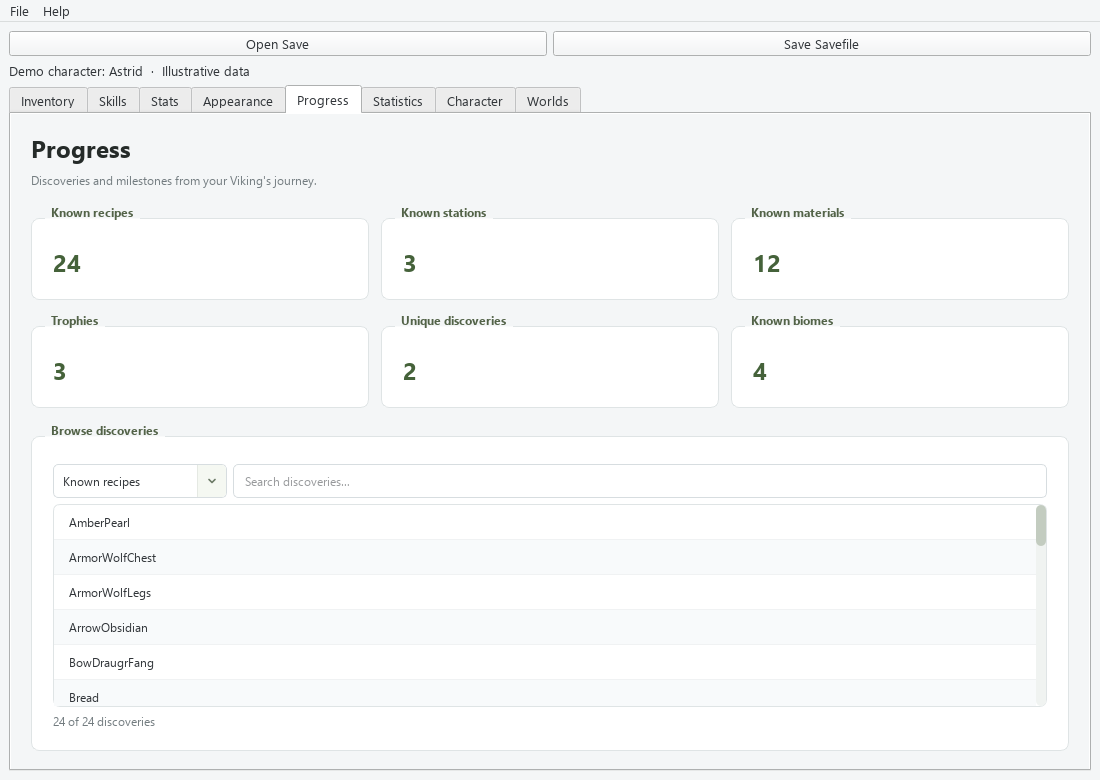
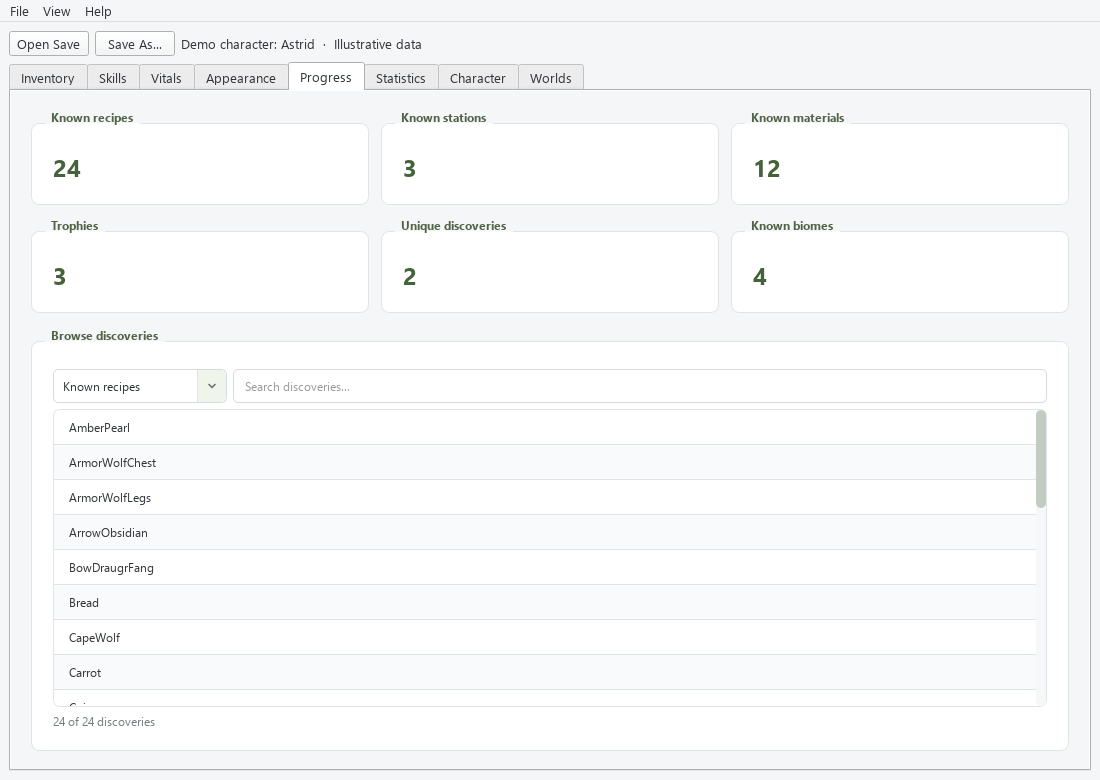
chore: prep VikingEditor v2.4.0

diff --git a/tools/createShowcase.py b/tools/createShowcase.py
@@ -20,8 +20,7 @@ from ui.mainWindow import MainWindow
 from ui.itemEditDialog import ItemEditDialog
 
 
-def main():
-    destination = ROOT / "docs" / "media"
+def main(destination):
     destination.mkdir(parents=True, exist_ok=True)
     app = QApplication([])
     app.setStyle("Fusion")
@@ -55,7 +54,8 @@ def main():
     data.update(health=125, max_health=150, stamina=100, max_stamina=150,
                 hair="Hair1", beard="Beard1", skin_color=[0.8,0.65,0.5], hair_color=[0.22,0.14,0.08],
                 foods=[dict(name="Bread",time=900),dict(name="CookedMeat",time=600)],
-                skills=[dict(id=i,level=level,xp=12) for i,level in ((1,65),(2,48),(3,56),(4,42),(5,60),(6,32))],
+                skills=[dict(id=i,level=level,xp=12) for i,level in ((1,65),(2,48),(3,56),(4,42),(5,60),(6,32),
+                                                                   (12345,42.5))],
                 known_recipes=prefabs, known_stations={"forge":5,"workbench":4,"cauldron":3},
                 known_material=prefabs[12:], trophies=["TrophyDeer","TrophyEikthyr","TrophyTroll"],
                 known_biomes=["Meadows","BlackForest","Swamp","Mountain"],
@@ -81,7 +81,7 @@ def main():
         index = next(i for i in range(window.tabs.count()) if window.tabs.tabText(i) == title)
         window.tabs.setCurrentIndex(index)
         app.processEvents()
-        path = destination / ("stats.png" if title == "Vitals" else f"{title.lower()}.png")
+        path = destination / f"{title.lower()}.png"
         window.grab().save(str(path))
         with Image.open(path) as image:
             frames.append(image.copy().convert("RGB"))
@@ -93,9 +93,14 @@ def main():
     app.processEvents()
     dialog.grab().save(str(destination / "item-editor.png"))
     dialog.close()
+    window.tabs.setCurrentIndex(0)
+    with patch("ui.mainWindow.save_config"):
+        window.dark_mode_action.trigger()
+    app.processEvents()
+    window.grab().save(str(destination / "inventory-dark.png"))
     window.close()
     print(f"Created showcase media in {destination}")
 
 
 if __name__ == "__main__":
-    main()
+    main(Path(sys.argv[1]) if len(sys.argv) > 1 else ROOT / "docs" / "media")

diff --git a/tests/test_player_versions.py b/tests/test_player_versions.py
@@ -1,7 +1,7 @@
 """Independent wire fixtures based on the installed game's Save/Load methods.
 
-These are synthetic, not copies of private character files. See
-docs/nested-save-compatibility.md for assembly evidence and real-save checks.
+These are synthetic wire fixtures. See the README's save compatibility table
+for the supported format versions.
 """
 from contextlib import redirect_stdout
 from copy import deepcopy

diff --git a/subscripts/equipmentSlots.py b/subscripts/equipmentSlots.py
@@ -1,6 +1,6 @@
 """Conservative recognition of EAQ 3.2's saved equipment cells.
 
-See docs/equipment-slots.md for the pinned upstream format and limitations.
+See docs/equipment-slots.md for supported layouts and limitations.
 Backups are evidence of dimensions, never a second editable inventory.
 """
 import base64

diff --git a/data/info.py b/data/info.py
@@ -1,5 +1,5 @@
 INFO_TEXT = """
-<h1><b>VikingEditor v2.3.0</b></h1>
+<h1><b>VikingEditor v2.4.0</b></h1>
 
 <h3><b>MAKE SURE TO BACKUP YOUR FILES BEFORE USING THIS EDITOR!</b></h3>
 

diff --git a/docs/media/README.md b/docs/media/README.md
@@ -6,9 +6,10 @@ Captured from the actual application with a synthetic character named Astrid.
 | --- | --- |
 | [Animated tour](showcase.gif) | GitHub README, showing five tabs in a 16-second loop |
 | [Item editor](item-editor.png) | Item editing interface |
-| [Inventory](inventory.png) | Item icons, equipment, and stacks |
+| [Inventory](inventory.png) | Responsive grid, equipment indicators, and stacks |
+| [Inventory in Dark Mode](inventory-dark.png) | The same inventory in the dark theme |
 | [Skills](skills.png) | Skill editing |
-| [Stats](stats.png) | Vitals and food buffs |
+| [Vitals](vitals.png) | Health, stamina, food buffs, and character flags |
 | [Progress](progress.png) | Discovery summaries and search |
 | [Statistics](statistics.png) | Lifetime activity |
 
@@ -20,6 +21,6 @@ From the repository root, with the project dependencies installed:
 .\venv\Scripts\python.exe tools\createShowcase.py
 ```
 
-The script uses Qt offscreen rendering and reads the existing local item database and icon cache. Run **File... Update Item Database** first for real Valheim icons. It writes only the showcase files in this directory; configuration and character saves are not modified. Windows captures use Segoe UI when installed; other systems use Qt's available fonts, so rendering may differ.
+The script renders the application in Qt’s offscreen mode and reads the existing local item database and icon cache. Run **File → Update Item Database** first if you want to show icons extracted from an installed game. Pass an output directory as the first argument to review a new capture before replacing the gallery. Windows captures use Segoe UI when installed.
 
 The GIF is an automated tab tour, not a recording of live gameplay. Static PNGs are available for readers who prefer no animation. Valheim item artwork shown within the application belongs to its respective rights holders.

diff --git a/docs/equipment-slots.md b/docs/equipment-slots.md
@@ -1,0 +1,9 @@
+# EquipmentAndQuickSlots support
+
+VikingEditor recognizes saved equipment from the eight-column EquipmentAndQuickSlots 3.2 layout when the saved visible-row count agrees with the mod’s backup header and the equipment’s position, slot marker, and owner agree. A slot marker alone is insufficient to establish where an item is stored. A recognized slot describes the save and does not indicate whether a mod is currently installed or enabled.
+
+The Inventory tab shows recognized equipment separately. For editable entries, you can change quality, durability, style variant, the item cheat flag, and crafter attribution. Item type, quantity, position, and equipped state are retained. Entries with unresolved item IDs or unsupported values stay read-only.
+
+Quick slots and the mod’s internal backup payload are outside the editable equipment view. The editor does not decode or restore the mod’s internal backup. When the layout cannot be established, affected mod storage remains outside that view. VikingEditor disables pocket changes and **Clear All Cheated Flags** when it detects relevant slot-mod markers.
+
+EquipmentAndQuickSlots options, other slot mods, and different versions can produce different layouts. Use a disposable copy and check it with the same mods installed in Valheim before editing an important save.
